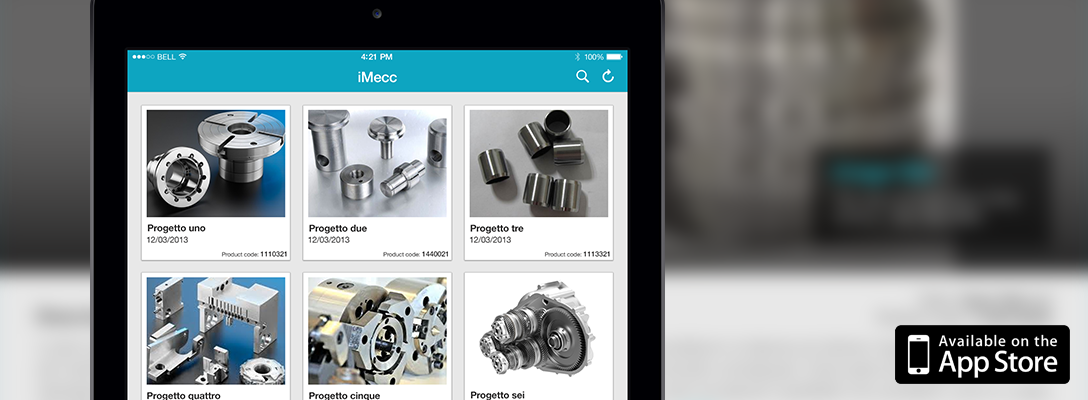
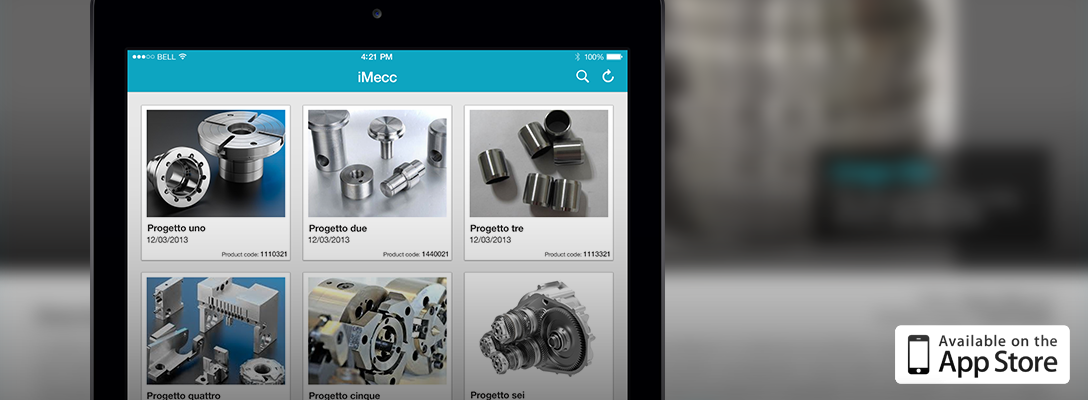
Minor styling changes.

diff --git a/assets/stylesheets/variables.scss b/assets/stylesheets/variables.scss
@@ -14,7 +14,7 @@ $default-margin-small: em(4);
 $image-margin: em(10);
 
 $default-font-small: em(14);
-$default-font-medium: em(18);
+$default-font-medium: em(17);
 $default-font-big: em(20);
 
 // Header ---------------------------------------------------------------

diff --git a/assets/stylesheets/main.scss b/assets/stylesheets/main.scss
@@ -50,7 +50,13 @@ hr {
   p {
     font-size: $default-font-medium;
     font-color: $light-font-color;
-    font-weight: 200;
+    font-weight: 400;
+  }
+
+  img {
+    border-style:solid;
+    border-width:1px;
+    border-color: #d2d2d2;
   }
 }
 
